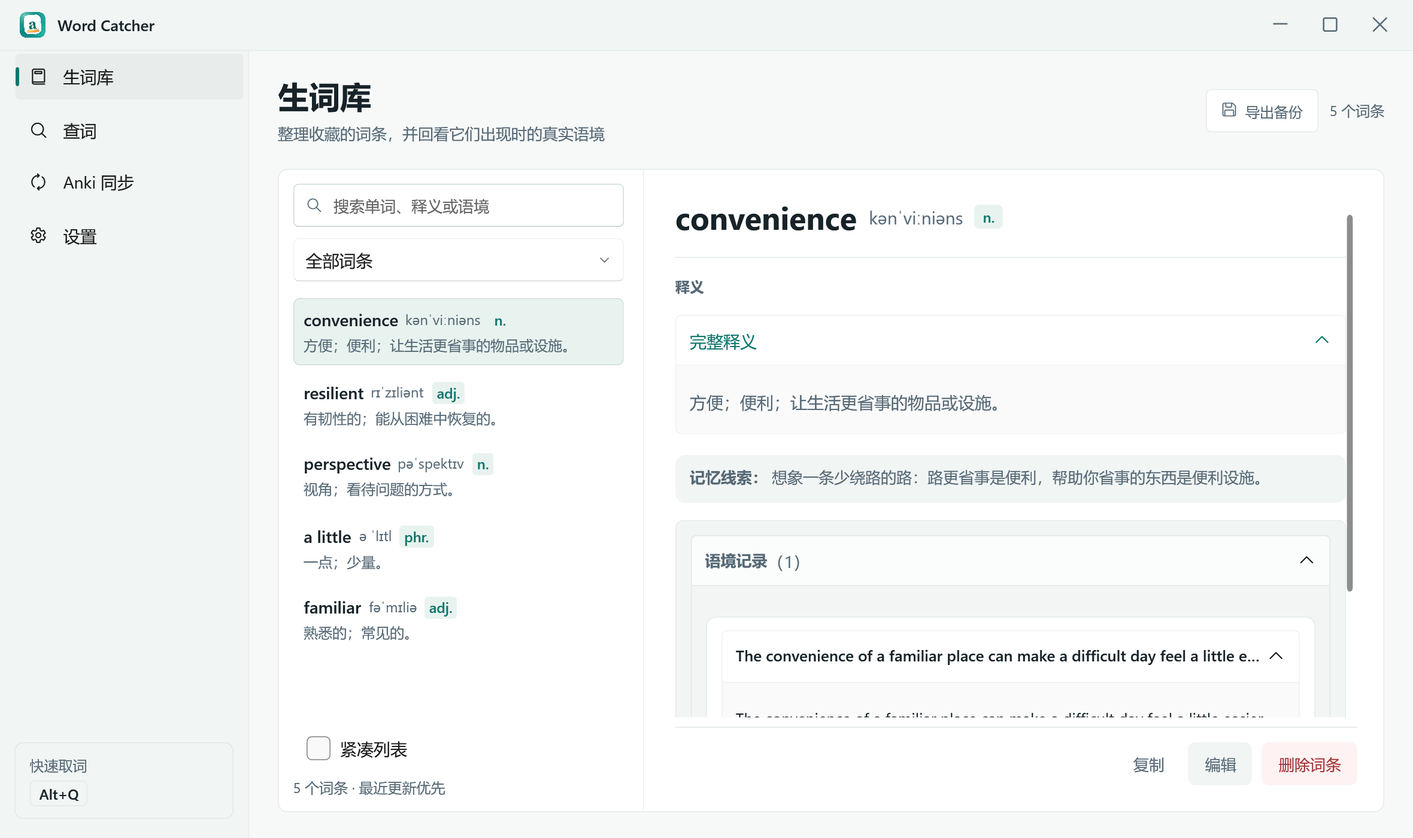
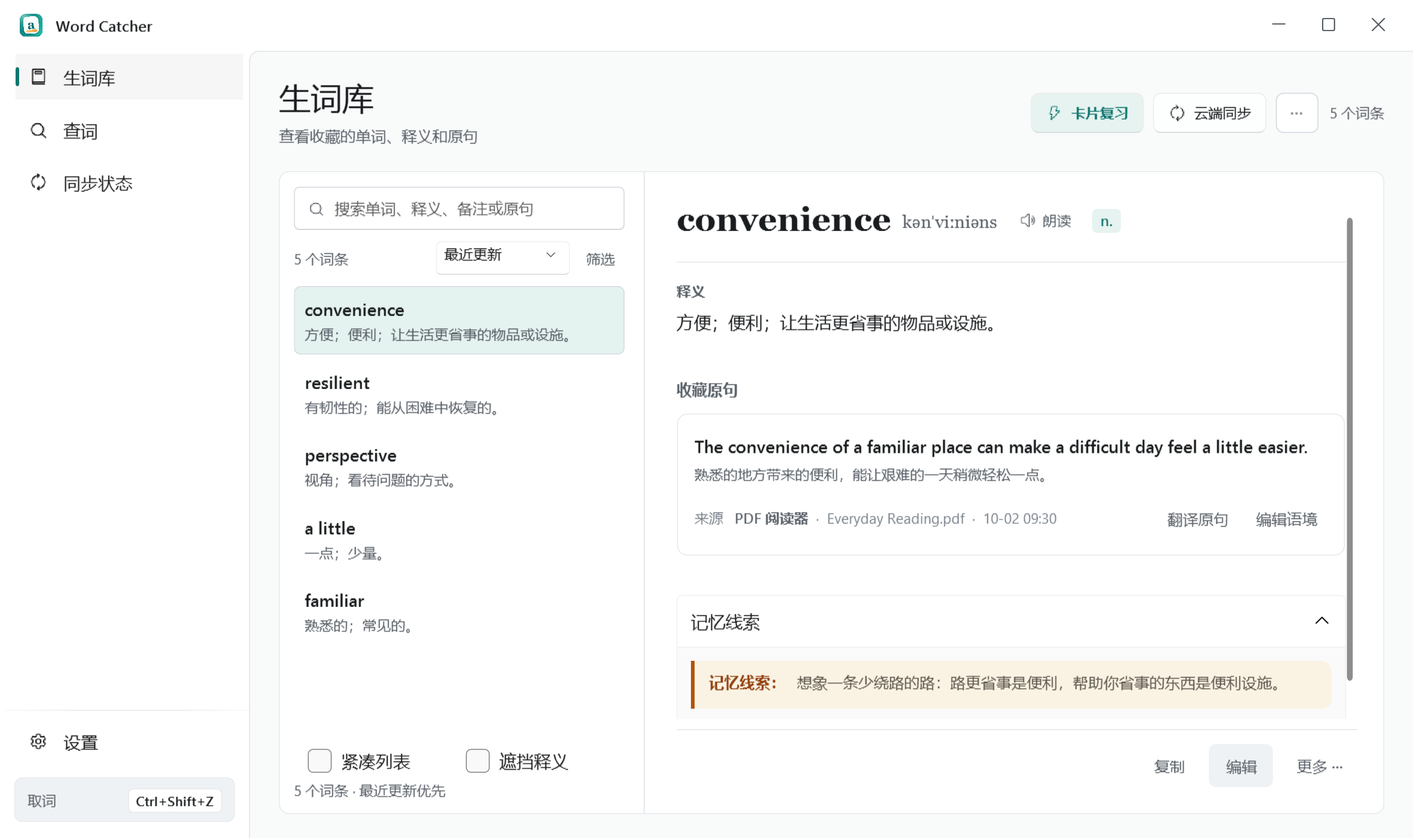
docs: rewrite README and refresh showcase visuals

diff --git a/docs/images/showcase.html b/docs/images/showcase.html
@@ -12,11 +12,11 @@
 <main class="poster" aria-label="Word Catcher 桌面版产品展示">
   <div class="brand"><img src="../../assets/icons/icon.svg" alt=""><strong>Word Catcher</strong><span class="edition">Windows 桌面版</span></div>
   <h1 class="headline">读懂外文资料，把生词和原句一起留下来。</h1>
-  <p class="intro">适合 PDF 文献、Word 文档与网页阅读。<br>理解词语在原句中的含义，积累自己的生词库。</p>
+  <p class="intro">适合 PDF 文献、Word 文档与桌面阅读。<br>跨应用取词理解当前语境，支持卡片复习与多端同步。</p>
   <div class="library"><img src="showcase-library.png" alt="真实 WPF 生词库界面，展示演示词条与语境"></div>
   <span class="label">词义与语境</span>
   <div class="lookup"><img src="showcase-lookup.png" alt="真实 WPF 查词浮窗，展示演示语境释义"></div>
-  <footer class="footer"><span>跨应用查词</span><i></i><span>理解当前语境</span><i></i><span>整理本地生词库</span><small>当前界面 · 演示数据</small></footer>
+  <footer class="footer"><span>跨应用取词</span><i></i><span>AI 语境详解</span><i></i><span>卡片复习与多端同步</span><small>当前界面 · 演示数据</small></footer>
 </main>
 <script>Promise.all(Array.from(document.images).map(image=>image.decode())).then(()=>document.fonts.ready).then(()=>{document.body.dataset.showcaseReady='true'});</script>
 </body>

diff --git a/tools/ShowcaseCapture/Program.cs b/tools/ShowcaseCapture/Program.cs
@@ -40,6 +40,7 @@ internal static class Program
             Word("familiar", "fəˈmɪliə", "adj.", "熟悉的；常见的。")
         };
         library.Words = new ObservableCollection<Word>(words);
+        library.MatchingWordCount = words.Length;
         library.StatusMessage = "5 个词条 · 最近更新优先";
         library.SelectedWord = words[0];
         var lookup = new LookupViewModel(null!, repo, null!, null!, null!, events)

diff --git a/README.md b/README.md
@@ -1,176 +1,112 @@
 <div align="center">
   <img src="assets/icons/icon.svg" width="72" height="72" alt="Word Catcher 图标" />
   <h1>Word Catcher · Windows 桌面版</h1>
-  <p>读懂外文资料，把生词和原句一起留下来。</p>
-  <p><a href="https://github.com/qup1010/WordCatcherDesktop/releases">下载桌面版</a> · <a href="https://github.com/qup1010/WordCatcher">浏览器插件</a> · <a href="https://github.com/qup1010/WordCatcherDesktop/issues">反馈问题</a></p>
+  <p>面向桌面阅读的跨应用查词与语境生词库工具。</p>
+  <p><a href="https://github.com/qup1010/WordCatcherDesktop/releases">下载安装</a> · <a href="https://github.com/qup1010/WordCatcher">浏览器插件</a> · <a href="https://github.com/qup1010/WordCatcherDesktop/issues">反馈问题</a></p>
 </div>
 
-Word Catcher 是一款 Windows 查词与生词整理工具，适合阅读 PDF 文献、Word 文档和网页资料。它帮助你理解陌生词语在原句中的含义，并把值得积累的词条与语境保存在本地，方便回顾和整理。
+**Word Catcher 桌面版** 是一款基于 WPF / Fluent UI 的 Windows 查词与生词整理应用，适用于 PDF 文献、Word 文档及各类桌面阅读软件。选中文本并按下全局快捷键即可弹出查词浮窗，结合离线词典、在线机翻与 AI 语境详解理解词义，并将单词、原句和个人笔记留在本地，或通过 WebDAV 与 Anki 同步。
 
 ![Word Catcher 桌面版：跨应用查词与本地生词库](docs/images/showcase.png)
 
-## 选择适合阅读场景的版本
+## 与浏览器插件配合
 
-| 产品 | 更适合的场景 | 主要用途 |
+| 版本 | 适用场景 | 核心能力 |
 | --- | --- | --- |
-| **Windows 桌面版（本项目）** | PDF 文献、Word 文档与桌面阅读 | 跨应用查词，积累生词与原句 |
-| [浏览器插件](https://github.com/qup1010/WordCatcher) | 外文文章、在线文档与网页资料 | 在当前网页理解词义和语境，回看查询记录 |
+| **Windows 桌面版（本项目）** | PDF 文献、Word 文档与桌面应用 | 全局快捷键跨应用取词、本地 SQLite 生词库、卡片复习与多端同步 |
+| [浏览器插件](https://github.com/qup1010/WordCatcher) | 外文文章、在线文档与网页浏览 | 网页划词浮窗、工具栏弹窗、侧边栏工作台与生词本复习 |
 
-两者都提供离线词典、在线快译和 AI 语境详解，可以按阅读场景搭配使用。已收藏的词条和语境可通过 WebDAV 在两端同步；需要在两端分别配置相同的 HTTPS 地址和文件路径。AI、快捷键等设置、离线词典、查询历史和 Anki 同步任务仍保存在各自设备。
+两端共享相同的词库数据模型与同步协议：配置相同的 HTTPS WebDAV 地址与文件路径后，收藏词条、原句、来源信息、个人编辑与删除记录会在两端合并同步；生词库 JSON 备份也可直接互相导入导出。应用设置、离线词典、查询历史和 Anki 同步任务各自独立保存在本机。详见 [WebDAV 同步说明](docs/webdav-sync.md)。
 
-## 安装与启动
+## 核心功能
 
-运行环境：**Windows 10 / 11，x64**。发布的自包含包无需另外安装 .NET。
+### 1. 跨应用取词与查词浮窗
 
-1. 打开 [Releases](https://github.com/qup1010/WordCatcherDesktop/releases)。下载 `WordCatcherDesktop-win-Setup.exe`，按安装向导选择目录和桌面快捷方式。
-2. 需要便携运行时，下载该版本的 Portable ZIP，完整解压后启动包内的 Word Catcher。旧版本的 ZIP 入口为 `WordCatcher.App.exe`。
-3. 应用启动后常驻右下角托盘。双击 Word Catcher 图标打开主窗口；图标被隐藏时，先展开托盘的折叠区域。
-4. 关闭主窗口会收回托盘。需要完全退出时，右键托盘图标，选择「退出」。
+- **全局热键取词**：在任意支持文本选择的窗口中选中单词、短语或句子，按下全局快捷键（默认 `Ctrl+Shift+Z`，可在设置自定义）即可在光标附近弹出查词浮窗；应用内也提供「查词」页支持手动输入查询。
+- **低侵入读取**：优先通过 UI Automation 直接读取选区文本；无法直接读取时自动备份当前剪贴板内容、模拟 `Ctrl+C` 取词并在完成后恢复原剪贴板（若期间用户新复制了内容则保留新内容）。
+- **浮窗交互**：支持图钉固定、系统语音朗读（TTS）、复制释义摘要、查看完整词典义项与记忆线索、切换「AI 详解」，以及一键「存入生词库」。
 
-ARM 设备暂未提供原生发布包。若从源码运行，请参阅 [开发说明](docs/development.md)。
+### 2. 三级查词引擎
 
-## 第一次查词
-
-支持可选择、可复制文本的阅读内容；不同应用的选区读取能力有所差异。图片和扫描件需要先通过其他工具进行 OCR，应用目前不提供 OCR。
-
-1. 在阅读软件中选中一个英文单词，松开鼠标。
-2. 按 **`Ctrl+Shift+Z`**，松开快捷键后等待查词卡片出现。
-3. 查看释义。需要结合原句理解时，先在「设置」中配置 AI 服务，再点击「AI 详解」；普通在线快译无需配置 AI。
-4. 点击「存入生词库」，保存词条和本次语境。在主窗口的「生词库」中可以回看、搜索和编辑。
-
-安装离线词典后，命中的单词可以离线查询；未安装或未命中时，联网后会使用在线机翻。也可以在主窗口的「查词」页手动输入单词、短语或句子，按 `Enter` 查询。
-
-### 三种查询方式
-
-| 方式 | 适合的用途 | 使用条件 |
+| 查词方式 | 内容与特性 | 使用说明 |
 | --- | --- | --- |
-| 离线词典 | 单词、短语的常用义、完整义项、例句和记忆线索 | 先安装词典；命中后无需联网 |
-| 在线机翻 | 快速看懂选中文字或整句 | 需要网络；可选择 Microsoft 或 Google |
-| AI 详解 | 结合当前原句解释含义并翻译语境 | 需要配置兼容接口、模型和 API Key |
+| **离线词典** | 基于 [Open Dictionary](https://github.com/ahpxex/open-dictionary)（`distribution.sqlite.gz`），包含音标、词性分组释义、补充解释、记忆线索与例句 | 在「设置 → 查词与词典」一键下载或导入本地文件；命中后无需联网 |
+| **在线快译** | 支持 **Microsoft 翻译** 与 **Google 翻译**，用于短语或整句快速理解 | 未命中离线词典或输入整句时使用；需要联网 |
+| **AI 详解** | 结合当前原句流式生成语境释义、整句翻译、核心表达与用法提示，支持重新生成 | 需配置兼容 OpenAI 格式的接口地址、模型名与 API Key |
 
-默认查询会优先用已安装的离线词典查询单词和短语；未命中或输入句子时，使用当前选定的在线快译服务。在线快译失败时不会自动切换服务或改用 AI；需要 AI 解释时，请点击「AI 详解」。
+- **词典展示策略**：离线词典将常规词性排在专名、人名之前，同一词性内按核心、常用、少见义排序；默认展示精简常用摘要，可随时展开查看完整义项与更多例句。
+- **多 AI 方案与预设**：支持保存并切换多套 AI 配置，内置 `OpenAI`、`DeepSeek`、`Kimi`、`智谱 GLM`、`硅基流动` 与 `本地 Ollama` 预设及连通性测试。
 
-离线词典将普通词性排在姓名、专名之前，同一词性内按核心、常用、少见义稳定排序。摘要覆盖全部有效词性，每个词性最多 3 条不同释义；优先使用核心和常用义，仅有少见义时仍会展示。展示、复制与保存使用同一份摘要，展开详情保留全部义项。详情依次展示短释义、补充解释、例句和用法提示；默认显示一条例句，其余可通过「更多例句」展开。
+### 3. 本地生词库与卡片复习
 
-离线卡片先展示常用释义，点击「完整释义」查看完整内容。保存与复制使用释义摘要，不随展开状态变化。朗读按钮使用 Windows 提供的语音能力，音色取决于本机安装的语音包。
+- **多语境积累**：每次查询自动记入最近历史，主动收藏后写入本地 SQLite 数据库；同一词条可关联多条不同来源窗口与原句语境，重新分析不会覆盖用户个人编辑。
+- **检索与整理**：支持按单词、释义、备注、原句实时搜索；支持按状态（全部词条 / 待同步 / 同步失败 / 最近 7 天收藏 / 有备注 / 无备注）与来源应用过滤；支持排序（最近更新 / 单词 A–Z / 最近收藏）、紧凑列表、多选批量删除、详情内联编辑及删除后本次运行内撤销。
+- **内置卡片复习**：在「生词库」中点击「卡片复习」进入自测模式，支持先看词条/原句、翻面显示释义、系统语音朗读及键盘快捷操作。
 
-## 安装离线词典
+### 4. WebDAV 多端同步、备份与 Anki 联动
 
-1. 双击托盘图标，进入「设置 → 查词与翻译」，找到「离线词典」区域。
-2. 点击「下载词典」，等待下载、解压和校验完成。安装时可查看进度，也可取消；已安装时按钮显示「重新下载词典」。
-3. 状态显示「已安装」后，查询一个常见英文单词；未命中时仍会使用在线翻译。
+- **WebDAV 云端同步**：强制使用 HTTPS 连接，通过版本向量与强 ETag 条件写入保护云端数据，支持保存/编辑/删除/恢复后自动触发防抖同步与手动「立即同步」；若两端发生并发修改冲突，可在「同步状态」页逐字段对比并选择保留本地或云端版本。
+- **Anki 联动制卡（可选）**：对接本机 [AnkiConnect](https://ankiweb.net/shared/info/2055492159)（默认 `http://127.0.0.1:8765`，默认牌组与笔记类型为 `Word Catcher`），支持目标词上下文挖空；Anki 未启动时自动入队并在「同步状态」页展示状态、错误详情与重试入口。
+- **JSON 备份**：在「生词库」页支持导出与导入全部有效词条和语境的完整 JSON 备份（不受当前搜索或筛选影响），可直接与浏览器插件互通。
 
-默认下载 [Open Dictionary](https://github.com/ahpxex/open-dictionary) 的 `distribution.sqlite.gz`。不能直接下载时，可在其 [Releases](https://github.com/ahpxex/open-dictionary/releases) 页面手动下载该文件，再在「词典高级选项」中选择「从文件安装」。也支持解压后的 SQLite 文件；浏览器插件使用的 JSONL 文件不能直接用于桌面版。
+### 5. 原生外观、托盘常驻与升级管理
 
-修改下载地址等高级选项后，点击「保存设置」使其生效。词典未安装或没有对应词条时，查询会回退到在线服务。
+- **Fluent 视觉与适配**：支持浅色、深色与跟随系统主题及 Mica 窗口材质，支持 PerMonitorV2 多屏高 DPI 缩放；较窄窗口下左侧导航自动收折为图标栏。
+- **分组设置与草稿保护**：设置页按「常规与外观」「查词与词典」「AI 详解」「同步与联动」「关于与更新」五个标签组织，切换标签自动保留未保存修改。
+- **托盘与开机自启**：关闭主窗口时最小化到系统托盘，右键托盘菜单可完全退出；可在设置中开关 Windows 登录自启动，若安装目录发生变化还支持一键修复启动路径。
+- **应用内更新**：安装版可在「设置 → 关于与更新」手动检查并下载 GitHub Release 安装包，启动安装向导时自动沿用当前安装目录覆盖升级。
 
-## 配置 AI 详解
+## 安装与上手
 
-1. 打开「设置」中的 AI 配置区域，新建或选中一套配置。
-2. 填写服务提供方给出的 **Base URL、模型名称和 API Key**。Base URL 是兼容接口的基础地址，通常包含版本路径，如 `/v1`，不需要填完整的 `/chat/completions` 请求地址。
-3. 测试连接，确认地址、密钥和模型可用；然后点击「保存设置」。
-4. 回到查词卡片，点击「AI 详解」验证实际查询结果。
+运行环境要求：**Windows 10 / 11（64 位 x64）**。发布包为自包含构建，无需单独安装 .NET 运行时。
 
-支持保存多套 AI 配置并切换当前使用的配置。连接成功后，具体模型仍需支持应用使用的结构化输出；接口兼容程度会影响查询结果。API 服务的网络条件、费用和额度由提供方决定。
+1. 前往 [GitHub Releases](https://github.com/qup1010/WordCatcherDesktop/releases) 下载对应版本：
+   - **安装版（推荐）**：下载 `WordCatcherDesktop-win-Setup.exe`，支持自定义安装路径与桌面快捷方式（默认安装至 `%LOCALAPPDATA%\Programs\WordCatcherDesktop`，无需管理员权限）；后续升级自动沿用原安装路径并保留用户数据。
+   - **便携版**：下载 `WordCatcherDesktop-win-Portable.zip`，解压至任意目录后运行 `WordCatcher.App.exe`。
+2. 启动后程序常驻系统托盘，双击托盘图标即可打开主窗口。
+3. 推荐首次使用顺序：在「设置 → 查词与词典」安装离线词典，在「设置 → AI 详解」配置模型接口（可选），随后在任意文档中选中英文单词并按 `Ctrl+Shift+Z` 即可体验。
 
-## 整理生词与日常操作
+更多安装、自启动、高 DPI 与升级机制说明见 [安装与升级说明](docs/installation-and-updates.md)。
 
-AI 结果优先展示当前语境义和原句翻译，并识别值得学习的完整表达；必要的解释、用法与例句可以展开查看。生成过程中不能保存，完成后可以编辑释义、译文和个人笔记，也可以点击「重新生成」。
+## 快捷键一览
 
-查询自动进入最近历史，点击「存入生词库」才成为正式收藏。同词可收藏多条语境，重复保存同一语境需要明确更新。每条语境分别保留原始选区、来源、AI 结果和用户编辑；重新分析不会自动覆盖用户编辑。在生词库中可以按语境编辑释义、译文和笔记，编辑后重新进入 Anki 同步队列。
+| 场景 | 快捷键 | 作用 |
+| --- | --- | --- |
+| 全局（其他应用） | `Ctrl+Shift+Z` | 读取当前选中文本并弹出查词浮窗（可在设置中修改） |
+| 主窗口 | `Ctrl+1` / `2` / `3` / `4` | 切换「生词库」「查词」「WebDAV 与 Anki 同步」「设置」 |
+| 主窗口 | `Ctrl+F` | 聚焦生词库搜索框或查词输入框 |
+| 主窗口 | `Ctrl+S` | 保存当前设置草稿或生词库编辑 |
+| 生词库 | `F2` / `Esc` | 开始编辑当前词条 / 取消编辑 |
+| 卡片复习 | `Space` | 显示或隐藏答案 |
+| 卡片复习 | `←` / `K`、`→` / `J` | 切换上一张 / 下一张卡片 |
+| 卡片复习 | `P` / `Esc` | 朗读当前词条 / 退出复习模式 |
+| 查词浮窗 | `Enter` / `Ctrl+Enter` | 存入生词库 / 触发 AI 详解 |
+| 查词浮窗 | `Ctrl+P` / `Ctrl+C` / `Esc` | 固定或取消固定浮窗 / 复制释义摘要 / 关闭浮窗 |
 
-「生词库」支持搜索单词、释义和语境，按最近更新排序，并按同步状态筛选。点击词条查看释义、记忆线索及每次收藏的原句与来源；列表较长时，可加载更多词条或使用紧凑列表。
+## 本地数据与隐私边界
 
-- **编辑**：点击「编辑」修改词条；保存失败时保留草稿。
-- **删除**：删除本地词条后，可以在本次运行中撤销。删除本地词条不会删除已经写入 Anki 的笔记。
-- **固定浮窗**：点击图钉，保持查词浮窗开启；再次取词会更新内容。
-- **改快捷键**：在「设置 → 操作与显示 → 取词快捷键」录入新组合，点击「保存设置」。若组合被占用，应用会提示更换，原快捷键仍会保留。
+应用数据默认保存在 `%LocalAppData%\WordCatcher\`：
 
-| 快捷键 | 使用位置与作用 |
+| 文件 / 目录 | 说明 |
 | --- | --- |
-| `Ctrl+Shift+Z` | 在其他应用中读取选中文字；可在设置中修改 |
-| `Ctrl+1` / `2` / `3` / `4` | 主窗口切换生词库、查词、同步状态、设置 |
-| `Ctrl+F` | 主窗口聚焦搜索或查词输入框 |
-| `F2` / `Ctrl+S` / `Esc` | 生词库开始编辑、保存、取消编辑 |
-| `Enter` / `Ctrl+Enter` | 查词浮窗保存词条、请求 AI 详解 |
-| `Ctrl+P` / `Esc` | 查词浮窗固定或取消固定、关闭浮窗 |
+| `wordcatcher.db` | 本地词条、语境快照、个人编辑、查询历史与 Anki 同步任务队列 |
+| `settings.json` | 界面主题、快捷键、词典源、翻译与同步参数配置（保存时自动保留 `.bak` 备份） |
+| `secrets.dat` | 使用当前 Windows 用户凭据通过 DPAPI 加密存储的 API Key 等密钥（含 `.bak` 备份） |
+| `dictionary/` | 已安装的离线词典数据库 |
+| `logs/` | 本地运行与错误排查日志 |
 
-<details>
-<summary><strong>可选：连接 Anki 复习</strong></summary>
-
-如果你已经使用 Anki，可以将收藏的词条进一步制成复习卡片。查词、语境详解和本地收藏均可独立使用。
-
-1. 安装并打开 [Anki 桌面版](https://apps.ankiweb.net/)。
-2. 在 Anki 中打开「工具 → 插件 → 获取插件」，填写 **`2055492159`** 安装 [AnkiConnect](https://ankiweb.net/shared/info/2055492159)，然后重启 Anki。
-3. 在 Word Catcher 的「设置」中启用 Anki 同步。默认地址是 `http://127.0.0.1:8765`，默认牌组和笔记类型名称均为 `Word Catcher`。
-4. 测试连接并保存设置。保持 Anki 运行，再收藏一个词条。
-5. 在「同步状态」页查看 Anki 任务，在 Anki 中检查对应牌组与卡片。
-
-保存会先写入本地生词库，再进入 Anki 同步队列。Anki 暂时不可用时，后台会按间隔重试；重试耗尽或发生无法自动处理的问题时，到「同步状态」页查看原因并手动重试。
-
-首次同步会创建所需牌组和笔记类型。使用自定义笔记类型时，需要保留应用所需字段；已有兼容模板不会被自动替换。跨设备复习由 Anki 自身的同步负责，Word Catcher 的本地词库不会因此自动同步。
-
-### Anki 一直显示待同步或同步失败
-
-确认 Anki 已打开、AnkiConnect 已安装，连接地址正确；查看「同步状态」页中的 Anki 错误原因。自动重试耗尽后需要手动重试。自定义笔记类型缺少字段时，先调整字段配置。
-
-</details>
-
-## 更新应用
-
-在「设置 → 关于」点击「检查更新」后，安装版会检查 GitHub Release 并下载新版安装包；完成后点击「安装更新」，应用退出并打开安装向导，默认沿用原安装目录。应用不会在启动或后台自动检查。便携版用户可从 GitHub Releases 下载新版便携包。
-
-便携版需要手动下载并解压新版。用户词库、配置和离线词典继续放在 `%LOCALAPPDATA%\WordCatcher`，安装程序默认位于 `%LOCALAPPDATA%\Programs\WordCatcherDesktop`。卸载只移除程序和快捷方式，保留用户数据。详见 [安装、升级与插件分发说明](docs/installation-and-updates.md)。
-
-## 数据保存与备份
-
-本机数据目录：`%LocalAppData%\WordCatcher\`。可以将该路径粘贴到资源管理器地址栏打开。
-
-| 文件或目录 | 用途 |
-| --- | --- |
-| `wordcatcher.db` | 本地词条、语境快照、用户编辑、最近查询历史及同步任务 |
-| `settings.json` | 界面、快捷键、AI 连接参数等设置 |
-| `secrets.dat` | 使用 Windows DPAPI 按当前用户加密的 API Key |
-| `dictionary/` | 已安装的离线词典 |
-| `logs/` | 本机运行日志，排查错误时使用 |
-
-在「生词库」页可以导入、导出包含**全部有效词条和语境**的 JSON 备份，不受当前搜索、筛选或列表加载数量影响。词库备份不包含应用设置和 API Key。
-
-桌面备份恢复会保留词条名称、摘要、各条语境的原始查询结果、个人编辑和语境 ID；恢复后继续同步会沿用原记录身份。设置和加密密钥保存时会保留上一版本的 `.bak` 文件，主文件损坏时自动尝试读取备份。
-
-需要在插件与桌面端之间同步词库时，在两端配置相同的 HTTPS WebDAV 地址和文件路径。启用自动同步后，同步会在启动或本地修改后触发；也可点击「立即同步」拉取其他设备的修改。服务器需要提供强 ETag 并支持条件写入；并发写入或同版本编辑发生冲突时会停止同步，保留两边内容。具体规则见 [WebDAV 同步说明](docs/webdav-sync.md)。
-
-### 哪些内容会发送到网络
-
-- 离线词典命中时，查询在本地完成。安装词典时会访问所配置的下载地址。
-- 在线机翻会把选中文字发送给实际处理请求的翻译服务。
-- AI 详解会把选中文字和可获取的句子上下文发送给你配置的 AI 服务；来源窗口标题和来源地址保留在本地记录中。
-- 同步 Anki 时会把词条和语境发送到配置的 AnkiConnect 地址，默认是本机地址。
-- 启用 WebDAV 后，词条、原句、来源地址及个人编辑会发送到你配置的 HTTPS WebDAV 服务器；客户端拒绝 HTTP，API Key、WebDAV 密码和本地 Anki 同步状态不写入词库同步文件。
+- **离线词典查词**：命中时完全在本地完成，不发起外部网络请求。
+- **在线快译 / AI 详解**：仅在执行在线翻译或点击 AI 详解时，将待查文本（及 AI 所需的当前原句上下文）发送到你配置的服务地址；来源窗口标题与地址仅留在本地或写入你启用的 WebDAV 同步文件。
+- **WebDAV / Anki / 更新检查**：WebDAV 强制 HTTPS，且不同步 API Key、WebDAV 密码及本地 Anki 队列；更新检查仅手动触发并访问 GitHub Releases。
 
 ## 常见问题
 
-### 按快捷键没有结果，或取到的内容不对
+- **按下快捷键无反应或未取到文本**：确认快捷键未被其他软件占用，且取词时目标窗口仍保持前台；部分禁用文本复制的 PDF 阅读器、图片/扫描件（需先 OCR）或高权限管理员窗口可能会阻止读取或模拟复制。可在主窗口「查词」页手动输入测试翻译功能。
+- **AI 连接测试通过但详解失败**：确认所选模型支持结构化 JSON 输出，且服务额度与模型名称填写正确；本地模型（如 Ollama）需先确认对应模型已拉取运行。
+- **Anki 卡片停留在待同步**：确认 Anki 桌面版已启动且已安装插件代码 `2055492159`（[AnkiConnect](https://ankiweb.net/shared/info/2055492159)）并重启过 Anki，可在「同步状态」页展开「查看错误详情」后手动重试。
 
-先确认已经选中文字、快捷键没有被其他应用占用，并保持原窗口处于前台。取词期间切换应用会取消本次请求。也可以在「查词」页手动输入，确认翻译功能本身正常。
+## 项目文档与数据署名
 
-应用优先直接读取选区，不支持时使用模拟 `Ctrl+C`。不同阅读器的支持程度不同；遇到无法复制的 PDF 或特殊控件时，无法保证读取成功。普通权限进程向管理员窗口发送模拟输入也会受 Windows 权限限制。
-
-### 取词后剪贴板会被修改吗
-
-直接读取选区成功时不会操作剪贴板。需要模拟复制时，应用会备份原内容，恢复前检查剪贴板是否又被修改；若你随后复制了新内容，会保留新内容。无法完整备份某些特殊格式时，会停止模拟复制。剪贴板持续被占用或系统调用失败时，仍可能无法恢复。
-
-### AI 报错或查不到词
-
-检查 Base URL、API Key、模型名和服务额度，并测试连接。在线机翻和 AI 都需要能访问对应服务；离线词典只覆盖已安装的词条。连接测试通过后，若实际 AI 查询失败，可能与结构化输出兼容性有关。
-
-### 想反馈问题，需要提供什么
-
-在 [Issues](https://github.com/qup1010/WordCatcherDesktop/issues) 中提供应用版本、Windows 版本、使用的软件、复现步骤和错误提示。必要时附上本机日志，分享前检查其中是否包含私人信息。
-
-## 项目与数据来源
-
-- 网页阅读可使用 [Word Catcher 浏览器插件](https://github.com/qup1010/WordCatcher)。
-- 构建、测试、目录约定与发布方式见 [开发说明](docs/development.md)；历史调查和验收见 [文档索引](docs/README.md)。
-- 离线词典来自 [Open Dictionary](https://github.com/ahpxex/open-dictionary)，数据署名包括 English Wiktionary 及其贡献者、Wiktextract，数据按 [CC BY-SA 4.0](https://github.com/ahpxex/open-dictionary/blob/main/LICENSE-DATA.md) 授权。
-- 应用代码与词典数据分别授权；当前桌面仓库尚未提供应用代码的独立 LICENSE 文件。
+- 开发构建、目录结构与发布流程见 [开发说明](docs/development.md)；技术设计及验收记录见 [文档索引](docs/README.md)。
+- 离线词典数据来自 [Open Dictionary](https://github.com/ahpxex/open-dictionary)，包含来自 English Wiktionary 及其贡献者与 Wiktextract 的数据，按 [CC BY-SA 4.0](https://github.com/ahpxex/open-dictionary/blob/main/LICENSE-DATA.md) 授权。
+- 本仓库当前尚未单独添加应用代码的开源许可证文件；词典数据授权独立于应用代码。
